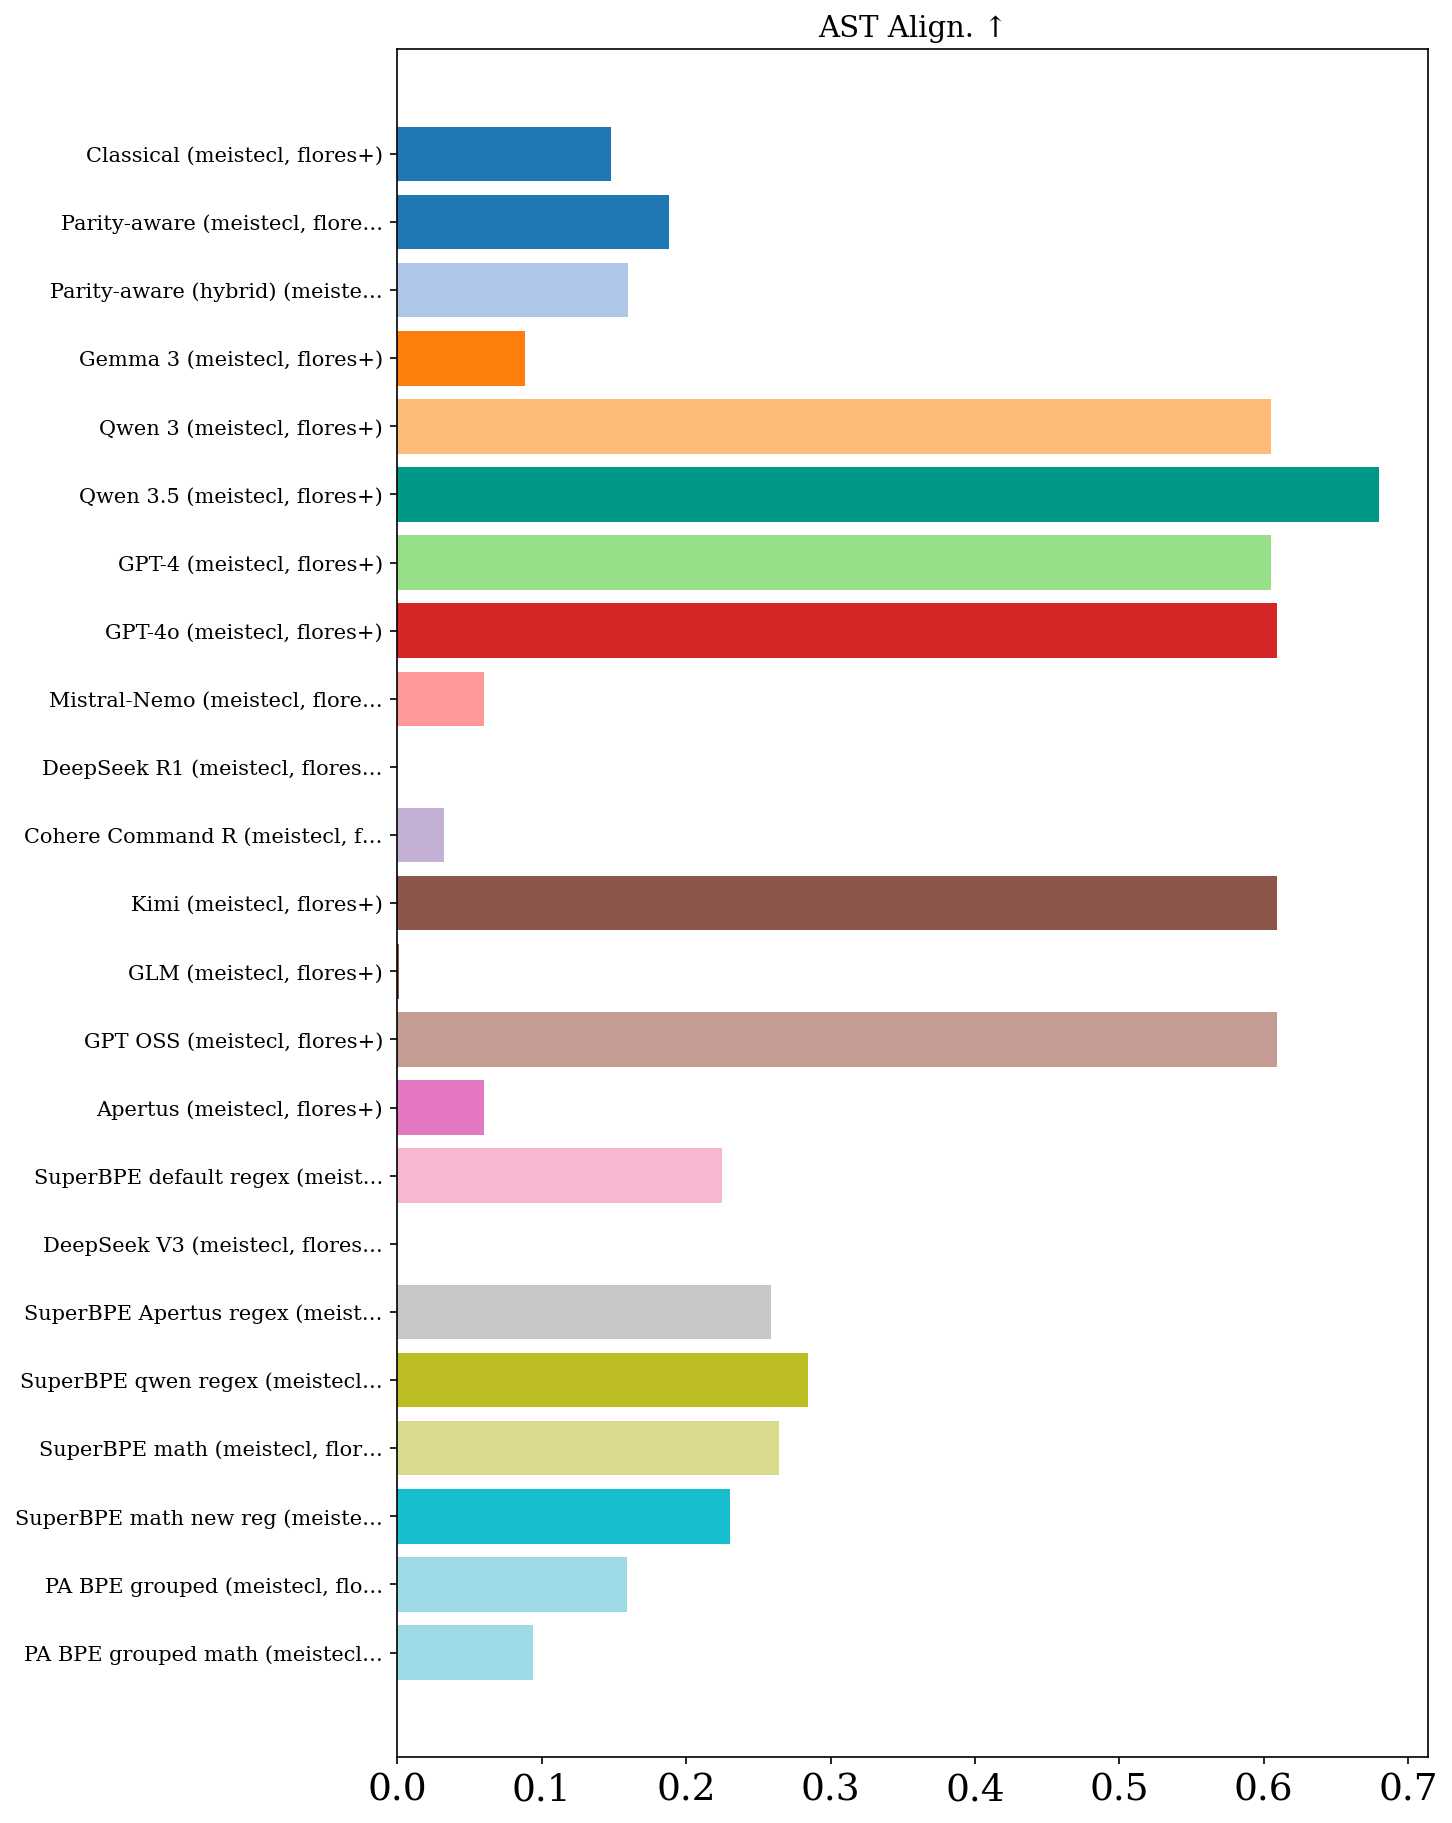
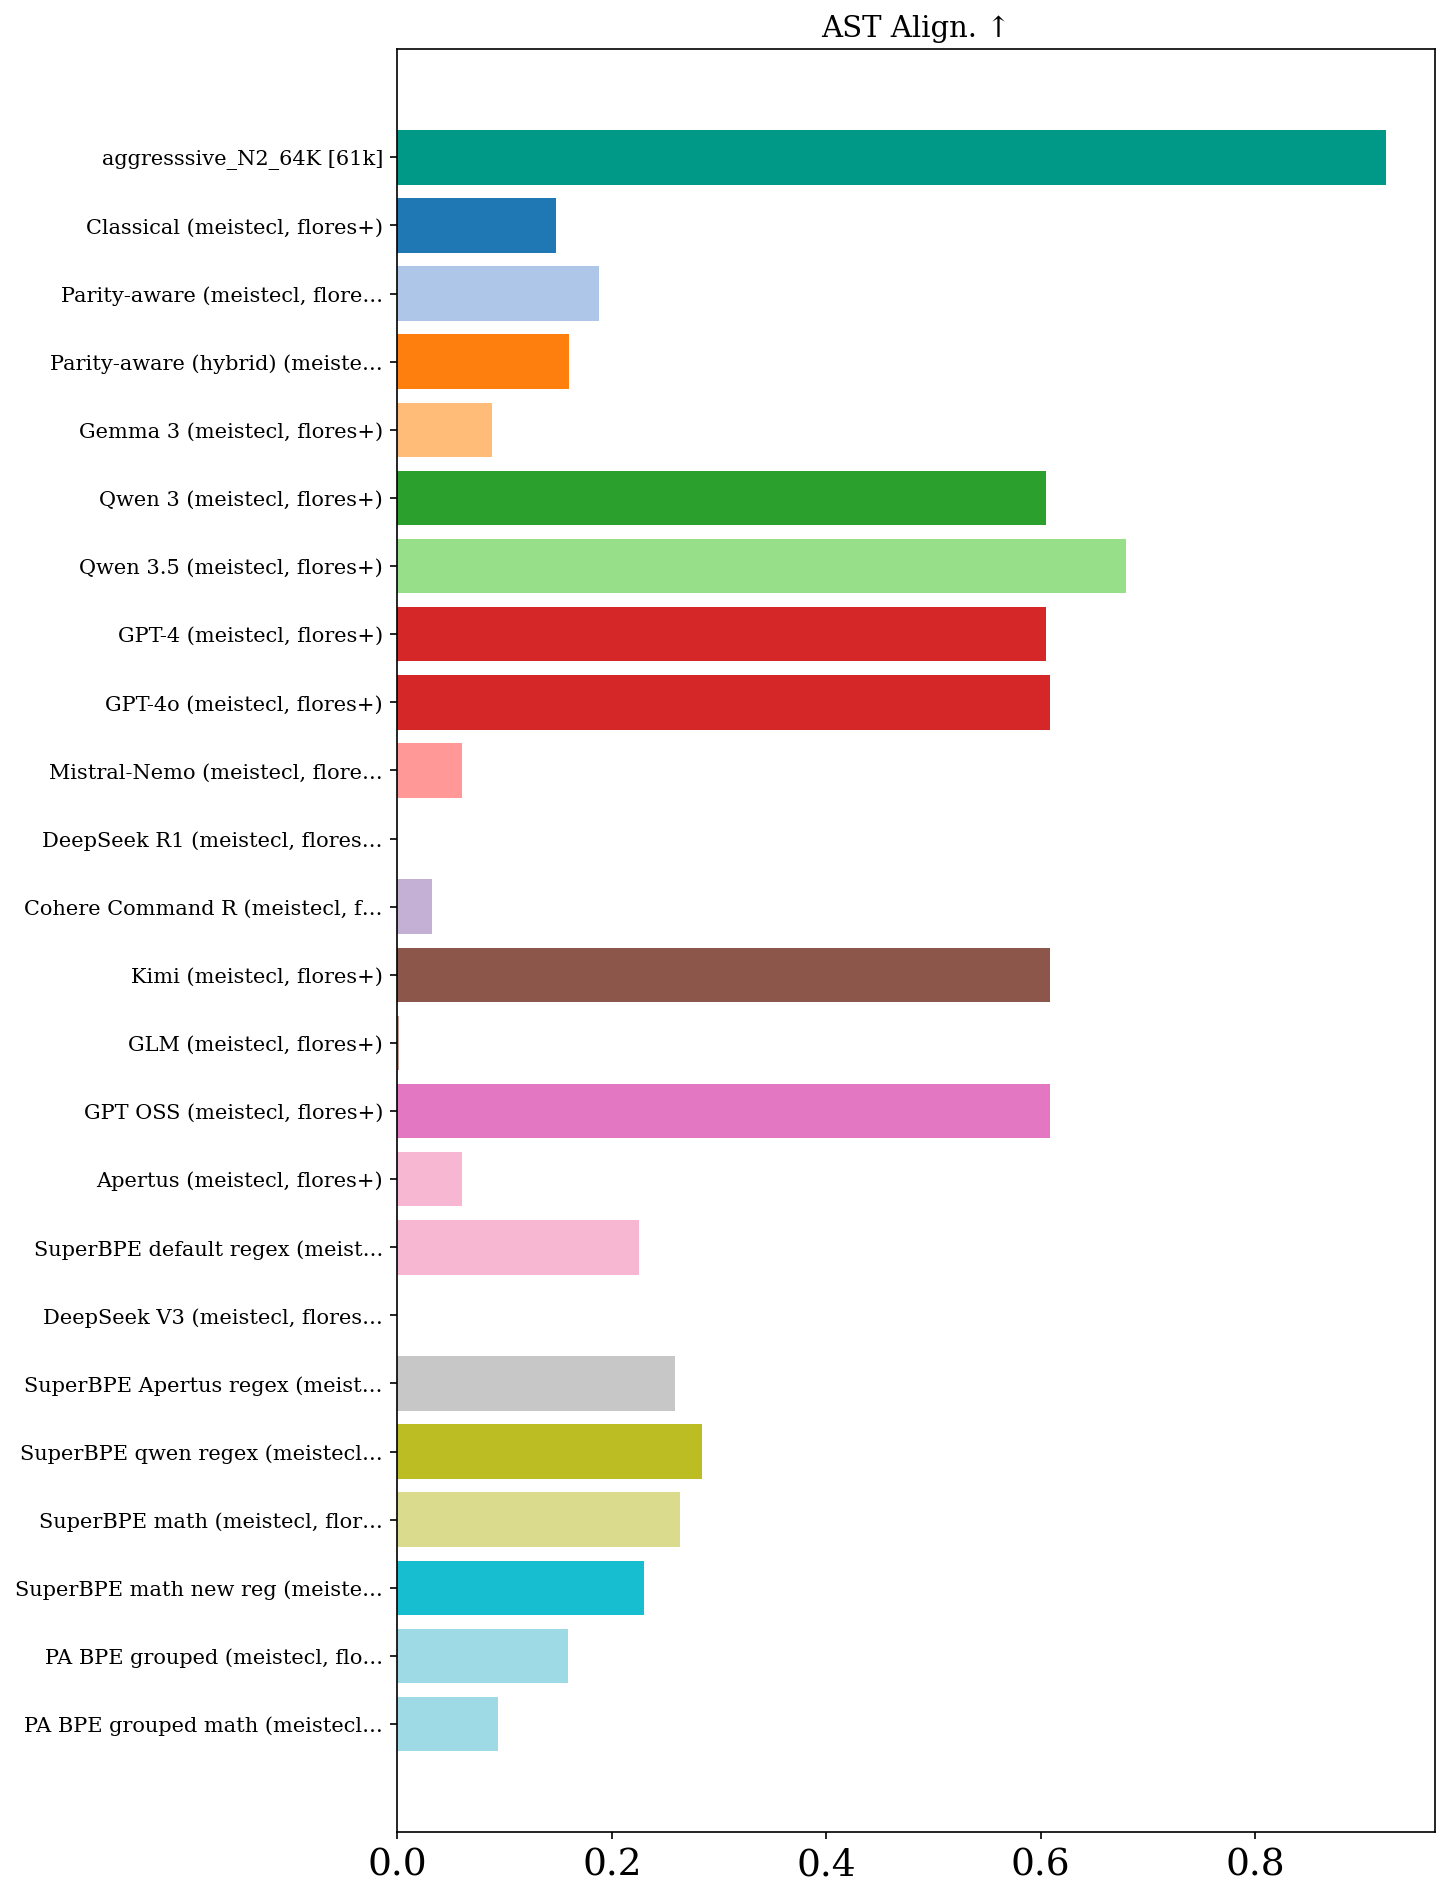
Update RESULTS_flores+_lines.md (2026-03-06 10:13:49)

diff --git a/RESULTS_flores+_lines.md b/RESULTS_flores+_lines.md
@@ -1,10 +1,10 @@
 # Tokenizer Evaluation Results — flores+ / lines
 
-_Last updated: 2026-03-06 10:04:52_
+_Last updated: 2026-03-06 10:12:28_
 
 | Tokenizer | Vocab Size | Fertility ↓ | Compression Rate ↑ | Vocab Util. ↑ | Avg Token Rank ↓ | Gini ↓ | 3-Digit Align. F1 ↑ | Op. Isolation ↑ | AST Align. ↑ | Ident. Frag. ↓ | Depth Corr. ↑ | Pat. Stability ↑ | Bound. Cross ↓ | Char Split ↓ | Languages | Dataset | User | Date |
 | --- | --- | --- | --- | --- | --- | --- | --- | --- | --- | --- | --- | --- | --- | --- | --- | --- | --- | --- |
-| aggresssive_N2_64K [61k] | 60,682 | 67.253 | 0.018 | 0.354 | 893.1 | 0.129 | 0.681 | 0.077 | --- | --- | --- | --- | **0.0000** | 0.0049 | 92 | flores+ | vkanjira | 2026-03-06 |
+| aggresssive_N2_64K [61k] | 60,682 | 67.253 | 0.018 | 0.354 | 893.1 | 0.129 | 0.681 | 0.077 | **0.922** | 0.561 | --- | **1.000** | **0.0000** | 0.0049 | 92 | flores+ | vkanjira | 2026-03-06 |
 | Boundless pairwise aggressive n2 (dkletz, flores+) | 5,033 | 88.335 | 0.013 | 0.644 | **108.7** | 0.082 | --- | 0.047 | --- | --- | --- | --- | --- | --- | 92 | flores+ | dkletz | 2026-02-22 |
 | Apertus (cmeister747, flores+) | 131,072 | 64.763 | 0.023 | 0.564 | 4318.1 | 0.308 | 0.363 | 0.185 | --- | --- | --- | --- | --- | --- | 92 | flores+ | cmeister747 | 2026-02-22 |
 | Parity-aware (hybrid) (cmeister747, flores+) | 128,004 | 58.267 | 0.022 | **0.691** | 4640.4 | 0.223 | 0.741 | 0.224 | --- | --- | --- | --- | --- | --- | 92 | flores+ | cmeister747 | 2026-02-22 |
@@ -21,14 +21,14 @@ _Last updated: 2026-03-06 10:04:52_
 | Parity-aware (hybrid) (meistecl, flores+) | 128,004 | 58.267 | 0.022 | 0.691 | 4640.4 | 0.223 | 0.771 | 0.294 | 0.160 | 0.066 | -0.049 | 0.991 | 0.0450 | 0.1107 | 92 | flores+ | meistecl | 2026-03-03 |
 | Gemma 3 (meistecl, flores+) | 262,145 | **46.221** | 0.026 | 0.447 | 9461.6 | 0.126 | 0.451 | 0.509 | 0.088 | 0.030 | -0.091 | 0.965 | 0.0293 | 0.0110 | 92 | flores+ | meistecl | 2026-03-03 |
 | Qwen 3 (meistecl, flores+) | 151,669 | 75.897 | 0.020 | 0.324 | 1699.6 | 0.312 | 0.451 | 0.966 | 0.605 | 0.383 | -0.037 | 0.994 | 0.0561 | 0.2422 | 92 | flores+ | meistecl | 2026-03-03 |
-| Qwen 3.5 (meistecl, flores+) | 248,077 | 53.347 | 0.024 | 0.387 | 5435.7 | 0.204 | 0.451 | 0.966 | **0.680** | 0.381 | -0.037 | 0.994 | 0.0096 | 0.0352 | 92 | flores+ | meistecl | 2026-03-03 |
+| Qwen 3.5 (meistecl, flores+) | 248,077 | 53.347 | 0.024 | 0.387 | 5435.7 | 0.204 | 0.451 | 0.966 | 0.680 | 0.381 | -0.037 | 0.994 | 0.0096 | 0.0352 | 92 | flores+ | meistecl | 2026-03-03 |
 | GPT-4 (meistecl, flores+) | 100,261 | 90.200 | 0.018 | 0.302 | 917.5 | 0.362 | 0.793 | 0.966 | 0.605 | 0.383 | -0.037 | 0.994 | 0.0517 | 0.4671 | 92 | flores+ | meistecl | 2026-03-03 |
 | GPT-4o (meistecl, flores+) | 200,000 | 47.045 | 0.027 | 0.522 | 9529.8 | 0.169 | 0.793 | 0.966 | 0.609 | 0.401 | -0.037 | 0.994 | 0.0078 | 0.0475 | 92 | flores+ | meistecl | 2026-03-03 |
 | Mistral-Nemo (meistecl, flores+) | 131,072 | 64.763 | 0.023 | 0.564 | 4318.1 | 0.308 | 0.451 | 0.496 | 0.060 | 0.037 | -0.037 | 0.994 | 0.0171 | 0.1525 | 92 | flores+ | meistecl | 2026-03-03 |
 | DeepSeek R1 (meistecl, flores+) | 128,815 | 62.674 | 0.021 | 0.418 | 2864.6 | 0.229 | 0.793 | 0.496 | 0.000 | --- | -0.037 | 0.994 | 0.0509 | 0.0103 | 92 | flores+ | meistecl | 2026-03-03 |
 | Cohere Command R (meistecl, flores+) | 255,029 | 75.168 | 0.022 | 0.433 | 3397.6 | 0.371 | 0.451 | 0.509 | 0.032 | 0.016 | -0.037 | 0.994 | 0.0474 | 0.0008 | 92 | flores+ | meistecl | 2026-03-03 |
 | Kimi (meistecl, flores+) | 163,840 | 62.820 | 0.020 | 0.244 | 2283.0 | 0.199 | 0.793 | 0.966 | 0.609 | 0.408 | -0.037 | 0.994 | 0.0498 | 0.1139 | 92 | flores+ | meistecl | 2026-03-03 |
-| GLM (meistecl, flores+) | 151,343 | 86.320 | 0.019 | 0.364 | 1631.6 | 0.372 | 0.644 | 0.000 | 0.001 | **0.000** | **0.000** | **1.000** | 0.0000 | **0.0000** | 92 | flores+ | meistecl | 2026-03-03 |
+| GLM (meistecl, flores+) | 151,343 | 86.320 | 0.019 | 0.364 | 1631.6 | 0.372 | 0.644 | 0.000 | 0.001 | **0.000** | **0.000** | 1.000 | 0.0000 | **0.0000** | 92 | flores+ | meistecl | 2026-03-03 |
 | GPT OSS (meistecl, flores+) | 200,019 | 47.045 | 0.027 | 0.521 | 9529.8 | 0.169 | 0.793 | 0.966 | 0.609 | 0.401 | -0.037 | 0.994 | 0.0078 | 0.0475 | 92 | flores+ | meistecl | 2026-03-03 |
 | Apertus (meistecl, flores+) | 131,072 | 64.763 | 0.023 | 0.564 | 4318.1 | 0.308 | 0.451 | 0.496 | 0.060 | 0.037 | -0.037 | 0.994 | 0.0171 | 0.1525 | 92 | flores+ | meistecl | 2026-03-03 |
 | SuperBPE default regex (meistecl, flores+) | 130,000 | 46.224 | 0.025 | 0.553 | 9333.4 | 0.106 | 0.793 | 0.407 | 0.225 | 0.028 | -0.037 | 0.994 | 0.0206 | 0.0249 | 92 | flores+ | meistecl | 2026-03-03 |
